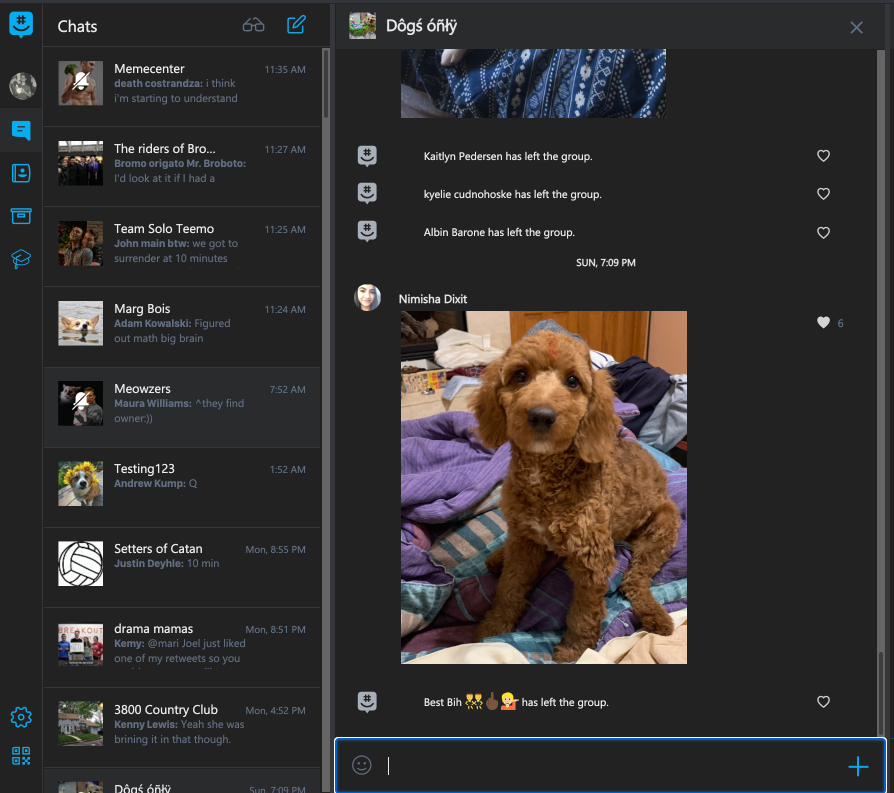
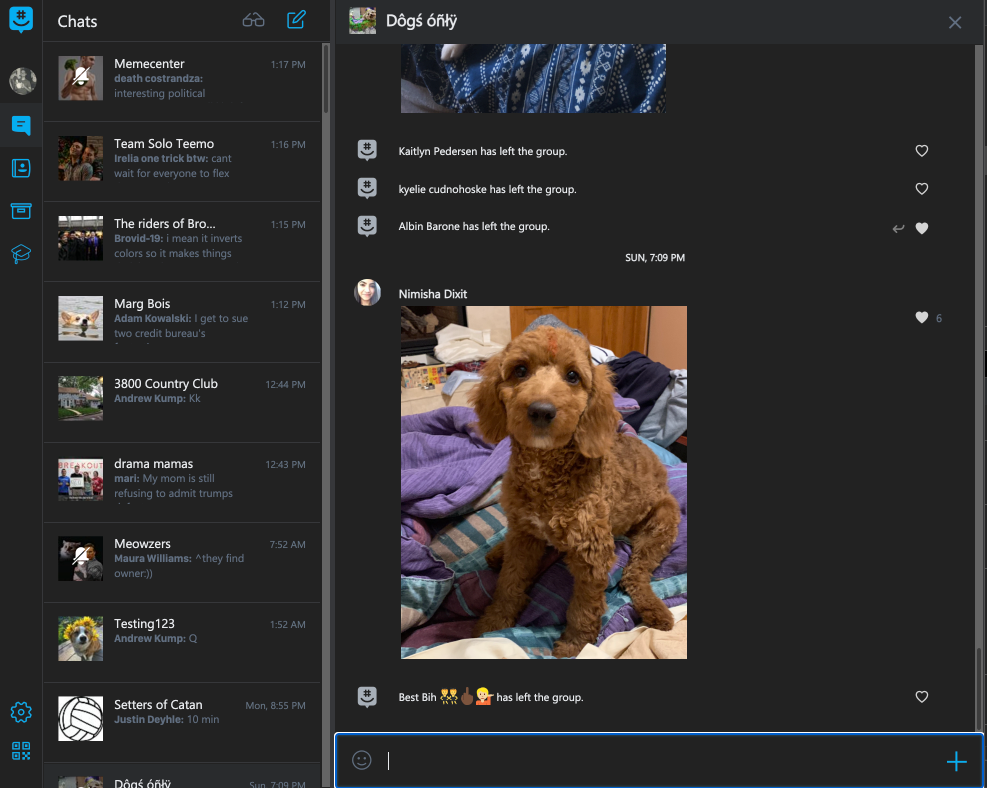
styling for system msgs and updated readme pic

diff --git a/styles.css b/styles.css
@@ -126,6 +126,7 @@ body,
   margin-left: 70px !important;
 }
 
-.chat-messages .message .message-header .avatar{
+.chat-messages .message .message-header .avatar,
+.chat-messages .message.system .message-header{
   width: 70px !important;
 }
